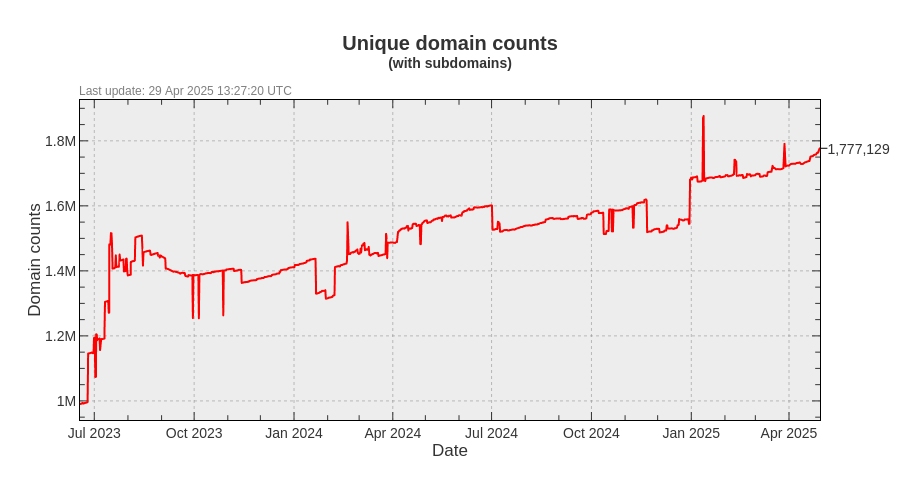
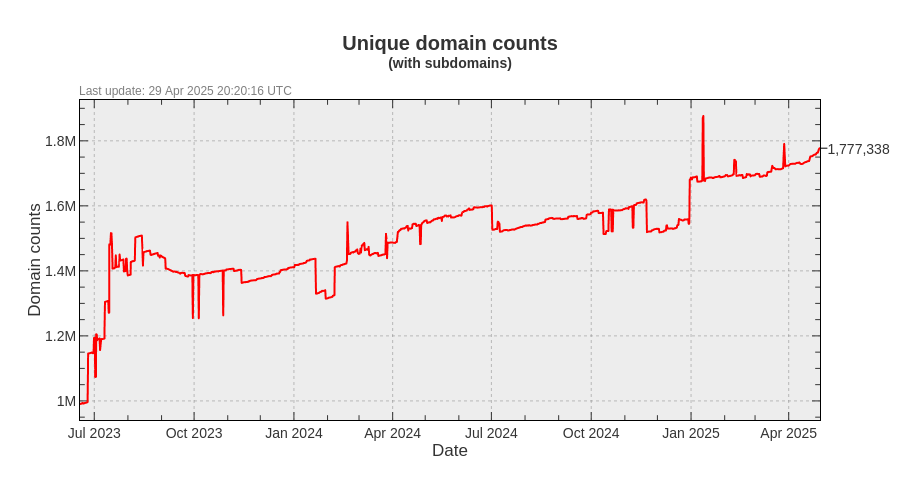
Update pages

diff --git a/README.md b/README.md
@@ -3,22 +3,22 @@ A blacklist file for blocking ads, trackers and malware domains.
 
[1 lines of base64/hex data omitted]
 
-- Unique domains: 1,777,129
-- Without subdomains: 1,154,577
-- Last update: 29 Apr 2025 13:27:20 UTC
-- Version: 2025.04.29.01
+- Unique domains: 1,777,338
+- Without subdomains: 1,154,768
+- Last update: 29 Apr 2025 20:20:16 UTC
+- Version: 2025.04.29.02
 
 
 ### Downloads:
 
 | Format             | Domain count      | Download Link |
 |:------------------ | -----------------:|:-------------:|
-| *Adblock Plus*     | 1,154,577 | [Download](https://raw.githubusercontent.com/cenk/bad-hosts/main/bad-hosts-abp) |
-| *Wildcard domains* | 1,154,577 | [Download](https://raw.githubusercontent.com/cenk/bad-hosts/main/bad-hosts-wildcard) |
-| *dnsmasq*          | 1,154,577 | [Download](https://raw.githubusercontent.com/cenk/bad-hosts/main/bad-hosts-dnsmasq) |
-| *Unbound*          | 1,154,577 | [Download](https://raw.githubusercontent.com/cenk/bad-hosts/main/bad-hosts-unbound) |
-| *hosts*            | 1,777,129 | [Download](https://raw.githubusercontent.com/cenk/bad-hosts/main/hosts) |
-| *hosts (ipv6)*     | 1,777,129 | [Download](https://raw.githubusercontent.com/cenk/bad-hosts/main/hosts-ipv6) |
-| *Plain domains*    | 1,777,129 | [Download](https://raw.githubusercontent.com/cenk/bad-hosts/main/bad-hosts-domains) |
+| *Adblock Plus*     | 1,154,768 | [Download](https://raw.githubusercontent.com/cenk/bad-hosts/main/bad-hosts-abp) |
+| *Wildcard domains* | 1,154,768 | [Download](https://raw.githubusercontent.com/cenk/bad-hosts/main/bad-hosts-wildcard) |
+| *dnsmasq*          | 1,154,768 | [Download](https://raw.githubusercontent.com/cenk/bad-hosts/main/bad-hosts-dnsmasq) |
+| *Unbound*          | 1,154,768 | [Download](https://raw.githubusercontent.com/cenk/bad-hosts/main/bad-hosts-unbound) |
+| *hosts*            | 1,777,338 | [Download](https://raw.githubusercontent.com/cenk/bad-hosts/main/hosts) |
+| *hosts (ipv6)*     | 1,777,338 | [Download](https://raw.githubusercontent.com/cenk/bad-hosts/main/hosts-ipv6) |
+| *Plain domains*    | 1,777,338 | [Download](https://raw.githubusercontent.com/cenk/bad-hosts/main/bad-hosts-domains) |
 
 
